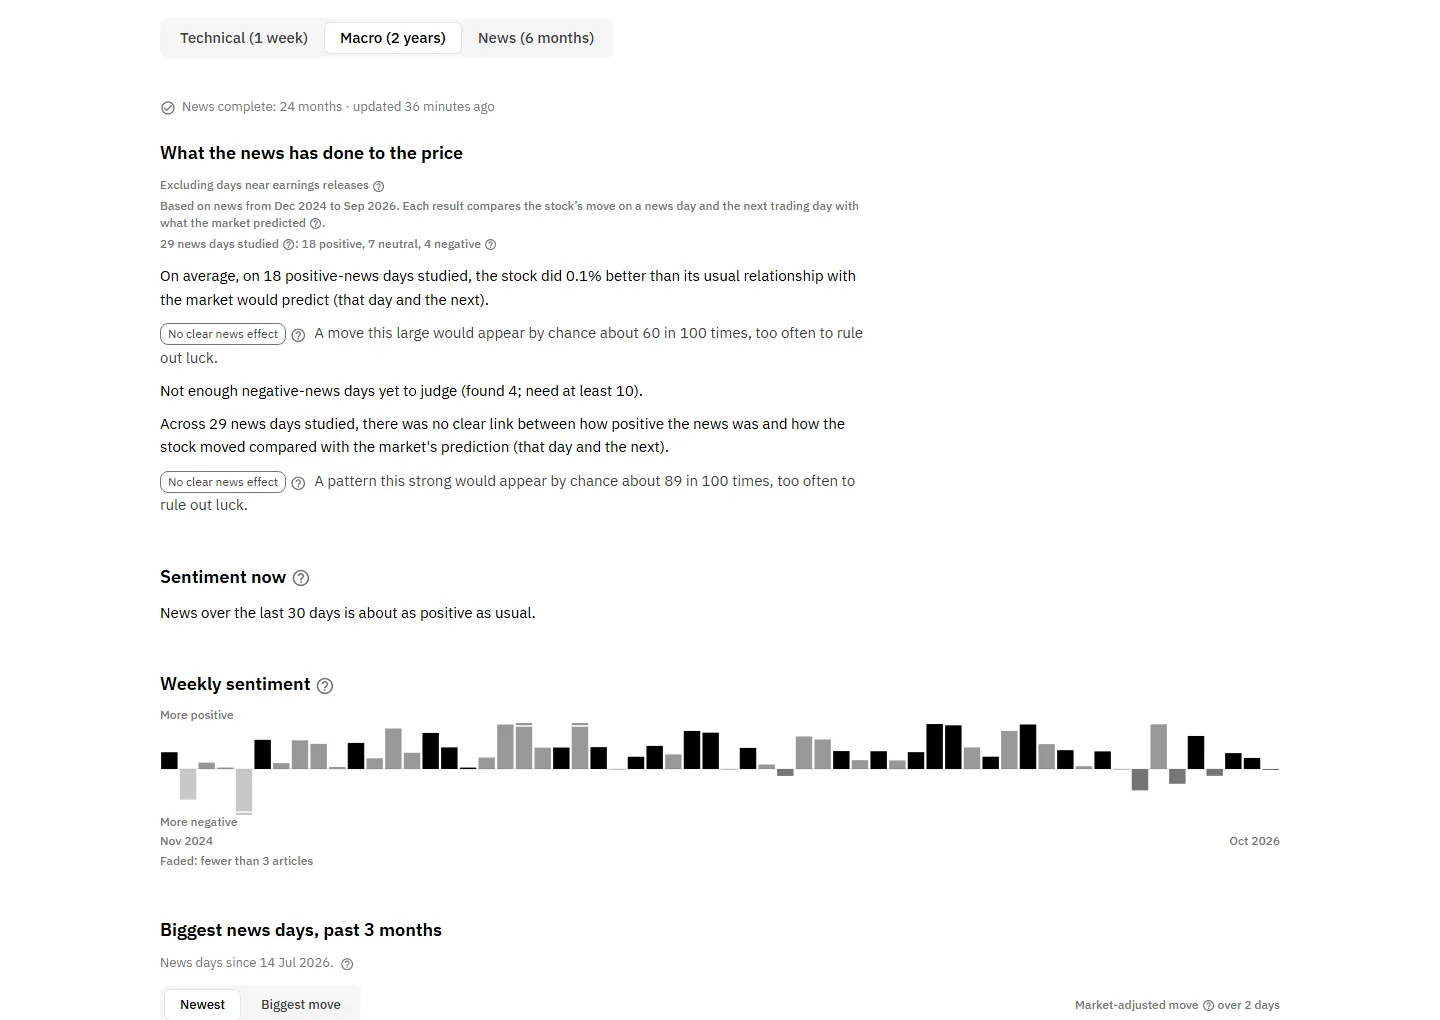
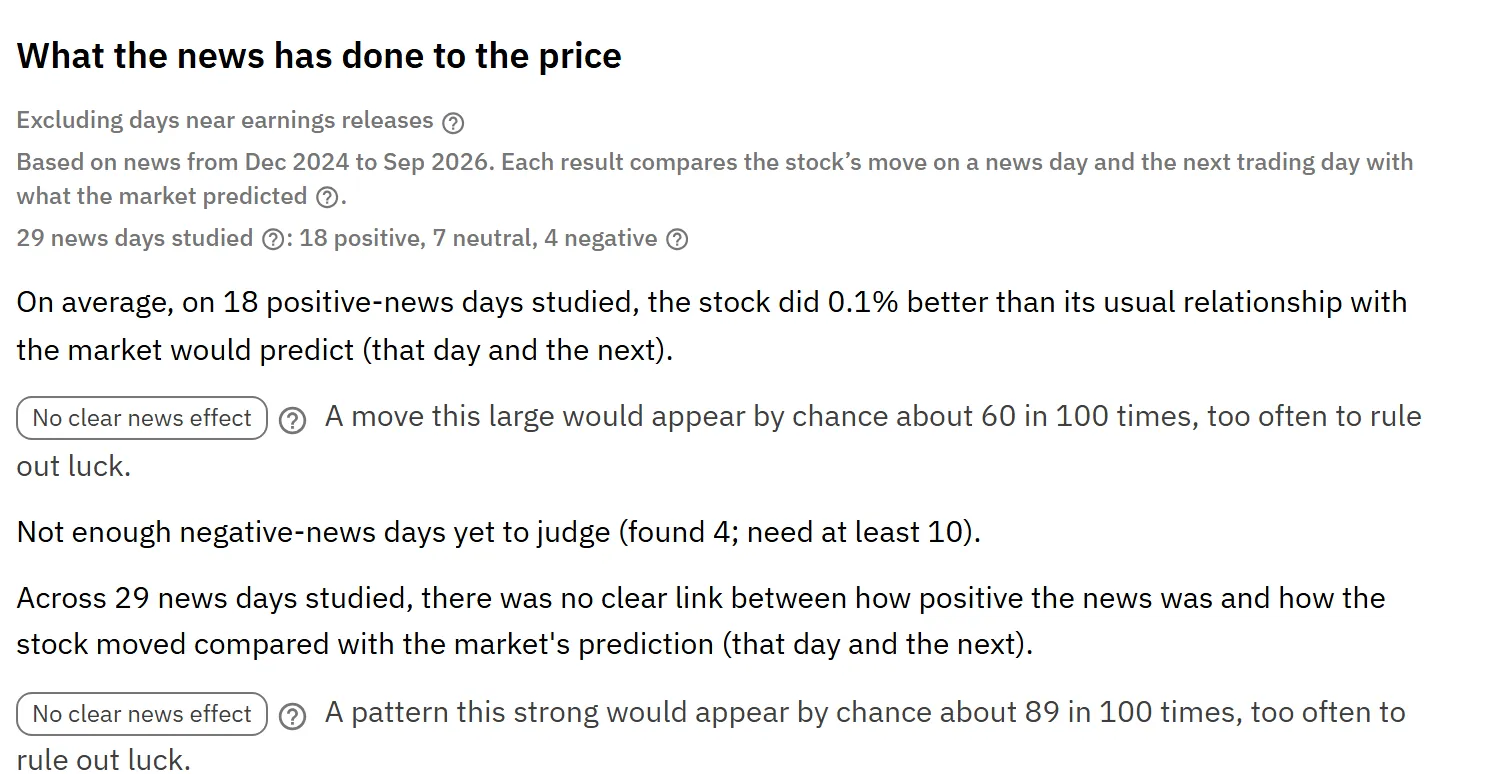
feat(frontend): landing images are tight, readable crops with dark variants
Chart, macro findings and a Discover list, captured at 768px 2x, light
and dark, 48-95 KB each as WebP.

diff --git a/frontend/src/pages/LandingPage.tsx b/frontend/src/pages/LandingPage.tsx
@@ -3,8 +3,9 @@ import Button from '@mui/material/Button';
 import { styled } from '@mui/material/styles';
 import Typography from '@mui/material/Typography';
 import { Link as RouterLink } from 'react-router';
-import homeDark from '../assets/landing/home-dark.webp';
-import homeLight from '../assets/landing/home-light.webp';
+import discoverDark from '../assets/landing/discover-dark.webp';
+import discoverLight from '../assets/landing/discover-light.webp';
+import macroDark from '../assets/landing/macro-dark.webp';
 import macroLight from '../assets/landing/macro-light.webp';
 import stockDark from '../assets/landing/stock-dark.webp';
 import stockLight from '../assets/landing/stock-light.webp';
@@ -33,22 +34,23 @@ const features: Feature[] = [
   {
     title: 'The week ahead, in one line',
     body: 'The Technical tab sums up the short-term lean as bullish, neutral or bearish. Candlestick patterns and indicators sit underneath, each explained in plain words, on a chart you can move and zoom.',
-    alt: 'A StockEye stock page: a candlestick chart for Apple with earnings and dividend markers, and a short-term lean of bullish with the signals behind it.',
-    light: { src: stockLight, width: 1440, height: 1100 },
-    dark: { src: stockDark, width: 1440, height: 1100 },
+    alt: 'A StockEye stock page for Apple: price, sector and country, chart controls and indicator chips above a candlestick chart with earnings and dividend markers.',
+    light: { src: stockLight, width: 1504, height: 1280 },
+    dark: { src: stockDark, width: 1504, height: 1280 },
   },
   {
     title: 'What the news really did',
     body: 'The Macro tab compares each news day over the past two years with what the market alone would have predicted. You see whether the news moved the price or whether it was just the market. The News tab lists the last six months of articles.',
-    alt: 'The Macro tab for DBS Group: plain sentences on what the news did to the price, and a weekly sentiment chart.',
-    light: { src: macroLight, width: 1440, height: 1020 },
+    alt: 'The Macro tab for DBS Group: plain sentences on what the news did to the price over 29 news days, each with how likely it is to be chance.',
+    light: { src: macroLight, width: 1504, height: 774 },
+    dark: { src: macroDark, width: 1504, height: 774 },
   },
   {
     title: 'Find smaller companies to look into',
     body: 'Discover brings you nightly lists of smaller US and Singapore companies. Keep the ones you like on your watchlist, and sort it by country.',
-    alt: 'A StockEye watchlist: a table of stocks with last price, one-week change, a small trend line and an outlook.',
-    light: { src: homeLight, width: 1440, height: 900 },
-    dark: { src: homeDark, width: 1440, height: 900 },
+    alt: 'The Discover page: a list of smaller US companies with their country, market value, price, one-week change, trend line and outlook.',
+    light: { src: discoverLight, width: 1504, height: 1040 },
+    dark: { src: discoverDark, width: 1504, height: 1040 },
   },
 ];
 
